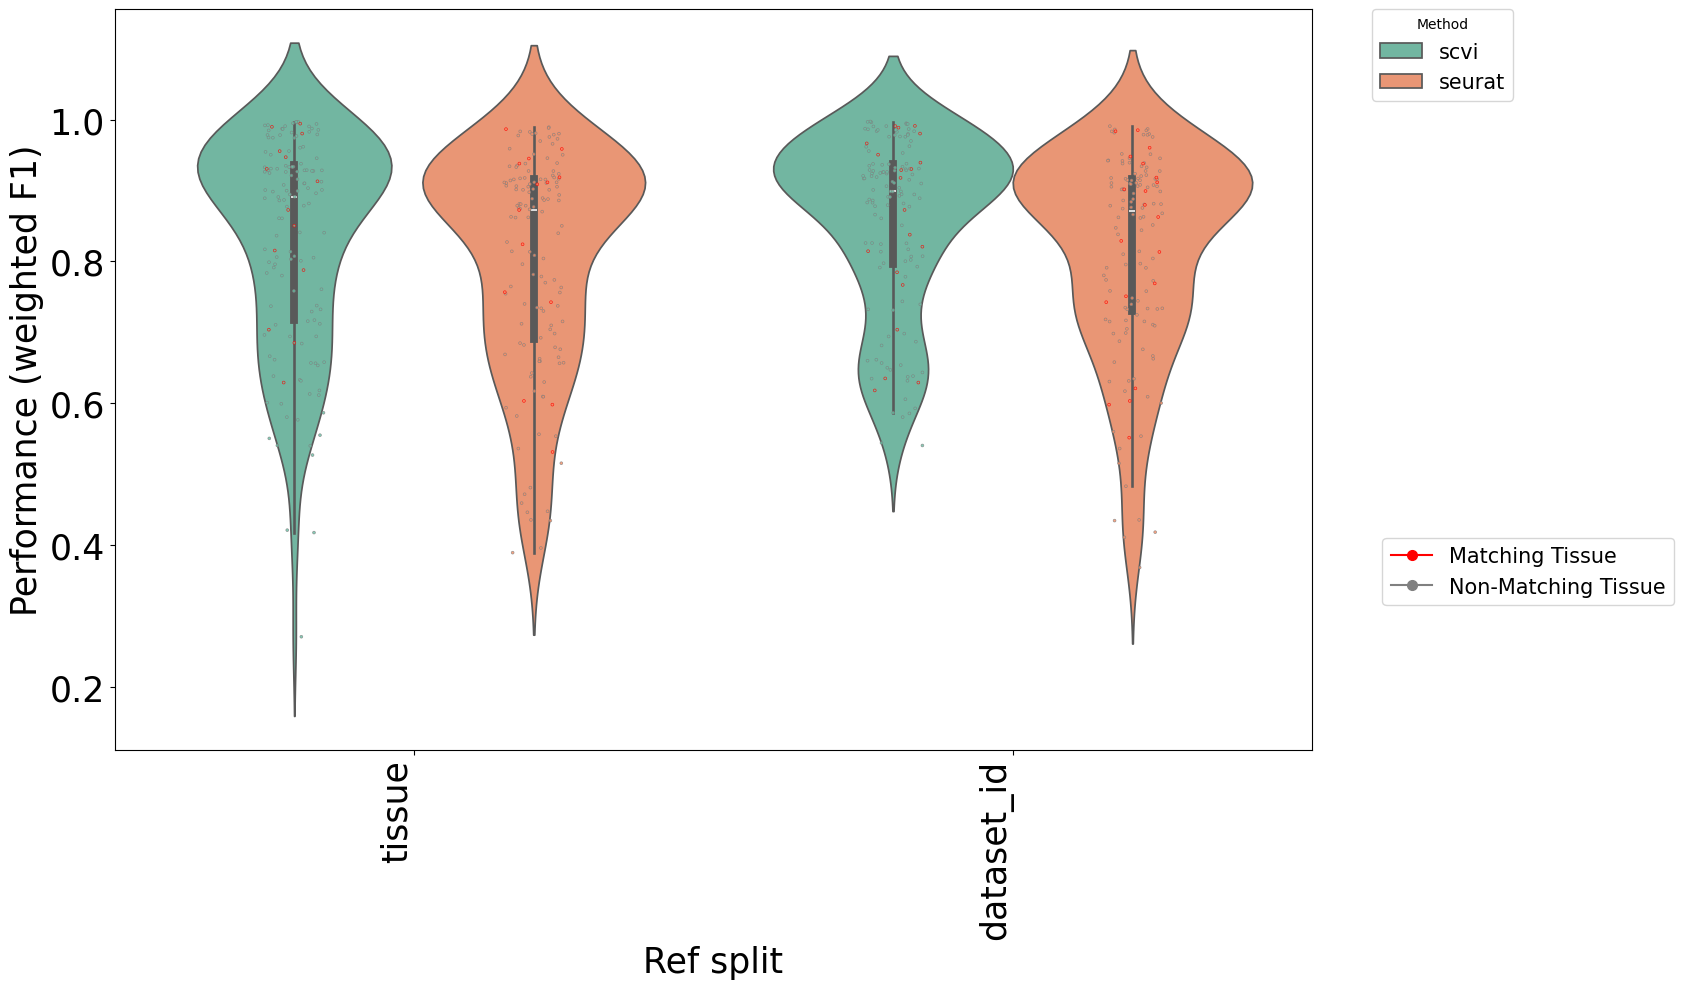
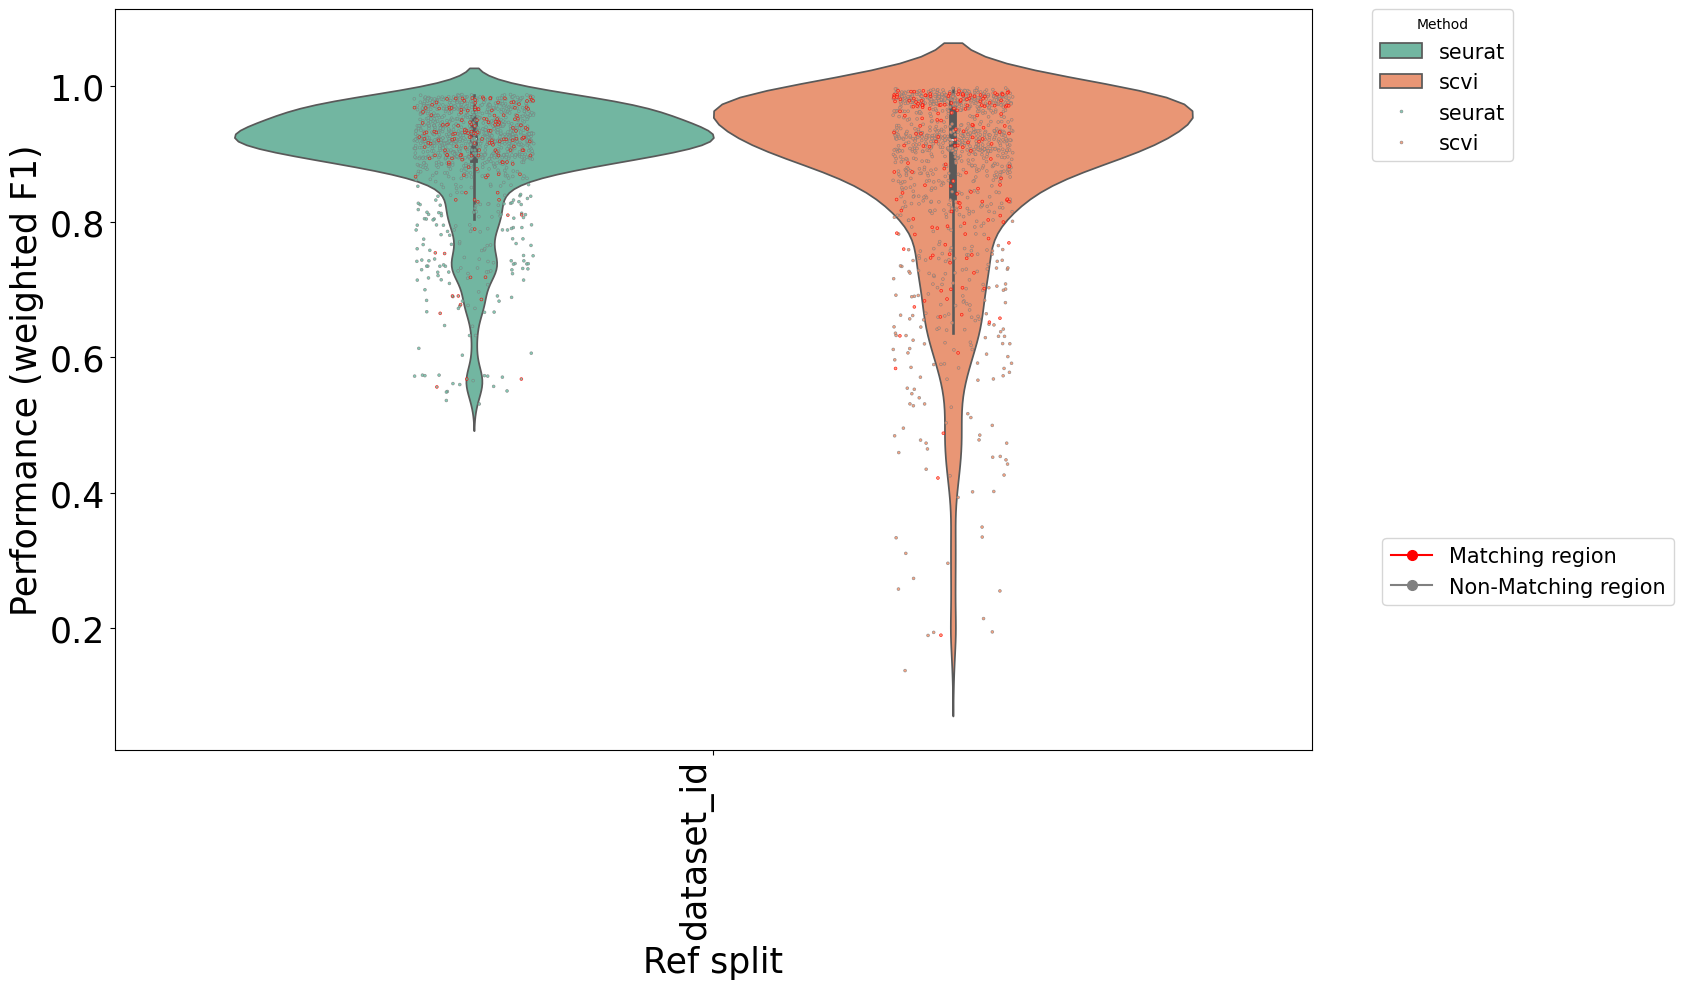
fix plots

diff --git a/bin/run_anova.py b/bin/run_anova.py
@@ -18,6 +18,9 @@ import argparse
 import os
 import statsmodels as sm
 from scipy import stats
+import matplotlib.pyplot as plt
+from sklearn.decomposition import PCA
+from sklearn.preprocessing import StandardScaler, OneHotEncoder
 
 
 # Function to parse command line arguments
@@ -31,88 +34,190 @@ def parse_arguments():
         known_args, _ = parser.parse_known_args()
         return known_args
 
+
+def compute_pca(df, f1_column, factor_names):
+    """
+    Parameters:
+    - df (pd.DataFrame): DataFrame containing the F1 scores and metadata factors.
+    - f1_column (str): Either "weighted_F1" or "label_F1".
+    - factor_cols (list): List of categorical metadata factors.
+
+    Returns:
+    - df_pca (pd.DataFrame): DataFrame with PC1, PC2, and factor columns.
+    - explained_variance (array): Explained variance ratio of the components.
+    """
+    # Identify categorical columns
+    factor_cols= [col for col in factor_names if df[col].nunique() > 1]
+    categorical_cols = [col for col in factor_cols if df[col].dtype != "numeric"]
+
+    # scale F1 column
+    X_f1 = df[[f1_column]].values
+    scaler = StandardScaler()
+    X_numeric = scaler.fit_transform(X_f1)
+
+    # One-hot encode categorical variables
+    encoder = OneHotEncoder(sparse_output=False, drop="first")
+    X_categorical = encoder.fit_transform(df[categorical_cols])
+
+    # Combine standardized F1 scores with encoded categorical data
+    X_combined = np.hstack([X_numeric, X_categorical])
+    n_samples, n_features = X_combined.shape
+    n_components = min(n_samples, n_features, 10)  # Adjust to valid range
+
+    # Run PCA
+    pca = PCA(n_components=n_components)
+    X_pca = pca.fit_transform(X_combined)
+
+    # Convert PCA output to DataFrame
+    df_pca = pd.DataFrame(X_pca, columns=[f"PC{i+1}" for i in range(X_pca.shape[1])])
+    df_pca = pd.concat([df_pca, df[categorical_cols].reset_index(drop=True)], axis=1)
+
+    return df_pca, pca.explained_variance_ratio_, factor_cols
+
+def plot_pca(df_pca, explained_variance, factor_cols, title_prefix, outdir):
+    """
+    Plots PCA results colored by each factor and saves the plots.
+
+    Parameters:
+    - df_pca (pd.DataFrame): DataFrame with PC1, PC2, and factors.
+    - explained_variance (array): Explained variance ratio from PCA.
+    - factor_cols (list): List of factors to color plots.
+    - title_prefix (str): Prefix for plot titles.
+    - outdir (str): Directory to save plots (optional).
+
+    Returns:
+    - None (displays and saves plots)
+    """
+    if outdir:
+        os.makedirs(outdir, exist_ok=True)  # Create directory if it doesn't exist
+
+    for factor in factor_cols:
+            # Create a figure with two subplots: one for PC1 vs PC2, and one for PC3 vs PC4
+            fig, axes = plt.subplots(1, 2, figsize=(14, 6))
+
+            # Plot for PC1 vs PC2
+            sns.scatterplot(data=df_pca, x="PC1", y="PC2", hue=factor, palette="tab10", alpha=0.7, ax=axes[0])
+            axes[0].set_title(f"{title_prefix} - Colored by {factor} (PC1 vs PC2)")
+            axes[0].legend(bbox_to_anchor=(1.05, 1), loc="upper left")
+
+            # Plot for PC3 vs PC4
+            sns.scatterplot(data=df_pca, x="PC3", y="PC4", hue=factor, palette="tab10", alpha=0.7, ax=axes[1])
+            axes[1].set_title(f"{title_prefix} - Colored by {factor} (PC3 vs PC4)")
+            axes[1].legend(bbox_to_anchor=(1.05, 1), loc="upper left")
+
+            # Adjust layout to prevent overlapping of titles/labels
+            plt.tight_layout()
+
+            # Save plot if outdir is specified
+            if outdir:
+                plt.savefig(os.path.join(outdir, f"{title_prefix}_{factor}_PCA.png"), bbox_inches="tight", dpi=300)
+
+            plt.show()
+
+    # Explained variance plot
+    plt.figure(figsize=(6, 4))
+    plt.bar(range(1, len(explained_variance) + 1), explained_variance * 100, alpha=0.7, color="blue")
+    plt.xticks(range(1, len(explained_variance) + 1))
+    plt.xlabel("Principal Component")
+    plt.ylabel("Explained Variance (%)")
+    plt.title(f"{title_prefix} - Explained Variance")
+
+    # Save variance plot
+    if outdir:
+        plt.savefig(os.path.join(outdir, f"{title_prefix}_explained_variance.png"), bbox_inches="tight", dpi=300)
+
+    plt.show()
+
+    
+
+def run_anova(df, factor_names, f1_column):
+    # Select factors with more than one unique value
+    factor_names_uniq = [col for col in factor_names if df[col].nunique() > 1]
+    # Construct formula
+    formula = f'{f1_column} ~ ' + ' + '.join(factor_names_uniq)
+    # Fit model
+    model = ols(formula, data=df).fit()
+    # Run ANOVA with error handling for warnings
+    with warnings.catch_warnings():
+        warnings.simplefilter('error')
+        aov_table = anova_lm(model, typ=2)
+    # Apply FDR correction
+    aov_table['FDR'] = np.append(stats.false_discovery_control(aov_table['PR(>F)'].dropna()), np.nan)
+    return aov_table
+
+def plot_anova_results(aov_combined_df, title_prefix):
+    
+    custom_order = ['subclass', 'class', 'family']
+    
+    # Set 'key' column as categorical with a custom order
+    aov_combined_df['key'] = pd.Categorical(aov_combined_df['key'], categories=custom_order, ordered=True)
+   
+    aov_combined_df["factor"] = aov_combined_df.index
+    aov_combined_df.reset_index(drop=True, inplace=True)
+     # Plot with faceting by 'key'
+    sns.set(style="whitegrid")
+    g = sns.FacetGrid(aov_combined_df, col="key", col_wrap=3, height=5)
+    g.map(sns.barplot, 'F', 'factor', hue='factor', data=aov_combined_df, dodge=False, palette="Set1")
+
+    # Set axis labels and titles
+    g.set_axis_labels('F-statistic', 'Factor')
+    g.set_titles(col_template="{col_name}", fontsize=20)
+   # g.set(xticks=[], yticks=[])
+
+    g.set_xlabels(fontsize=20)
+    g.set_ylabels(fontsize=20)
+        # Adjust layout and save the figure
+    plt.tight_layout()
+    plt.savefig(f"{title_prefix}_anova_plot.png")
+    
 def main():
+    
     args = parse_arguments()
     weighted_f1_results = pd.read_csv(args.weighted_f1_results, sep="\t")
     label_f1_results = pd.read_csv(args.label_f1_results, sep="\t")
-   
+    categoricals = ['manuscript','reference','method','ref_split', 'region_match',"sex","disease","dev_stage"]
+
     if not args.vars:
     # Assuming f1_results is your pandas DataFrame and factor_names is a list of column names
-        factor_names = ["ref_region","query_region","region_match","subsample_ref","method"]  # replace with actual factor column names
+        factor_names = ['manuscript','reference','method','ref_split', 
+                        'region_match',"subsample_ref","sex","disease","dev_stage","cutoff"] # replace with actual factor column names
+
     else:
         factor_names = args.vars
+
     # Convert factor columns to categorical
-    for factor in factor_names:
+    for factor in categoricals:
         weighted_f1_results[factor] =weighted_f1_results[factor].astype('category')
         label_f1_results[factor] =label_f1_results[factor].astype('category')
-    # Convert weighted_f1 to numeric
-    #f1_results['weighted_f1'] = pd.to_numeric(f1_results['weighted_f1'], errors='coerce')
-    #weighted_f1_results = f1_results[factor_names + ["key"] + ["weighted_f1"]].drop_duplicates()
+    
+
+    aov_combined = []
     df_list = [group for _, group in weighted_f1_results.groupby('key')]
-    # run anova for each df in df_list
+    factor_names = factor_names
     for df in df_list:
-    # Run anova
-        formula = 'weighted_f1 ~ ' + ' + '.join(factor_names)
-        model = ols(formula, data=df).fit()
-        aov_table = anova_lm(model, typ=2)
-        
-        # FDR correction
-        aov_table['FDR'] = np.append(stats.false_discovery_control(aov_table['PR(>F)'].dropna()), np.nan)
-        
-        print(aov_table)
-        # Apply -log10 transformation to the FDR values for the plot
-        aov_table['-log10(FDR)'] = -np.log10(aov_table['FDR'])
+        aov_table = run_anova(df, factor_names, f1_column="weighted_f1")
+        aov_table.to_csv(df['key'].values[0] + "_anova_global_table.tsv", sep="\t")
         aov_table = aov_table.drop('Residual', axis=0)
-        
-        fig, ax = plt.subplots(figsize=(10, 5))
- 
-        # Plot with the transformed y-values
-        sns.barplot(x='index', y='-log10(FDR)', data=aov_table.reset_index(), ax=ax, hue='index')
-        # Set labels and title
-        ax.set_ylabel('-log10(FDR)', fontsize=20)
-        ax.set_xlabel('Factor', fontsize=20)
-        ax.set_title(f"{df['key'].values[0]}", fontsize=20)
-        # Rotate x-axis labels
-        plt.xticks(rotation=90, fontsize=20)
-        # Adjust layout and save the figure
-        plt.tight_layout()
-        plt.savefig(f"{df['key'].values[0]}_anova_global_plot.png")
-        
-    # do this for individual label f1 scores
+        aov_table['key'] = df['key'].values[0] 
+        aov_combined.append(aov_table)
 
-    #label_results = f1_results[f1_results['label'].notnull()]
+    aov_combined_df = pd.concat(aov_combined)
+    plot_anova_results(aov_combined_df, "weighted_f1")
+    
+    
+    aov_table_label = []
     df_list = [group for _, group in label_f1_results.groupby('key')]
+    factor_names = factor_names + ["label"]
     for df in df_list:
-        df = df[df['label'].notnull()]
-        # Run anova
-        formula = 'f1_score ~ ' + ' + '.join(factor_names)  + ' + label'
-        model = ols(formula, data=df).fit()
-        aov_table = anova_lm(model, typ=2)
-    
-        # FDR correction
-        aov_table['FDR'] = np.append(stats.false_discovery_control(aov_table['PR(>F)'].dropna()), np.nan)
-    
-        print(aov_table)
-        # Apply -log10 transformation to the FDR values for the plot
-        aov_table['-log10(FDR)'] = -np.log10(aov_table['FDR'])
+        aov_table = run_anova(df, factor_names, f1_column="f1_score")
+        aov_table.to_csv(df['key'].values[0] + "_anova_label_table.tsv", sep="\t")
         aov_table = aov_table.drop('Residual', axis=0)
+        aov_table['key'] = df['key'].values[0] 
+        aov_table_label.append(aov_table)
+
+    aov_combined_df = pd.concat(aov_table_label)
+    plot_anova_results(aov_combined_df, "label_f1")    
     
-        fig, ax = plt.subplots(figsize=(10, 5))
-
-        # Plot with the transformed y-values
-        sns.barplot(x='index', y='-log10(FDR)', data=aov_table.reset_index(), ax=ax, hue='index')
-        # Set labels and title
-        ax.set_ylabel('-log10(FDR)', fontsize=20)
-        ax.set_xlabel('Factor', fontsize=20)
-        ax.set_title(f"{df['key'].values[0]}", fontsize=20)
-        # Rotate x-axis labels
-        plt.xticks(rotation=90, fontsize=20)
-        plt.yticks(fontsize=20)
-        # Adjust layout and save the figure
-        plt.tight_layout()
-        plt.savefig(f"{df['key'].values[0]}_anova_label_plot.png")
-
-
 if __name__ == "__main__":
     main()
   

diff --git a/bin/aggregate_results.py b/bin/aggregate_results.py
@@ -87,25 +87,24 @@ def add_strip_plot(df, var, split, facet, add_region_match=True):
         edgecolor='grey',    # Grey edge color for non-match region
         linewidth=0.5
     )
-    if add_region_match:
-        # Create the strip plot for matching region data with customized edgecolor
-        sns.stripplot(
-            data=match_region_df,
-            y=var,
-            x=split,
-            hue=facet,
-            dodge=True,          
-            palette="Set2",      
-            size=2,
-            alpha=0.8,           
-            jitter=True,
-            marker="o",
-            edgecolor='r',       # Red edge color for match region
-            linewidth=0.5,         
-            legend=None,         # Disable legend for second plot
-            ax=ax                # Add to same axis
-        )
-     # Create custom legend handles for edge color
+    # Create the strip plot for matching region data with customized edgecolor
+    sns.stripplot(
+        data=match_region_df,
+        y=var,
+        x=split,
+        hue=facet,
+        dodge=True,          
+        palette="Set2",      
+        size=2,
+        alpha=0.8,           
+        jitter=True,
+        marker="o",
+        edgecolor='r',       # Red edge color for match region
+        linewidth=0.5,         
+        legend=None,         # Disable legend for second plot
+        ax=ax                # Add to same axis
+    )
+    # Create custom legend handles for edge color
           
 
 def add_acronym_legend(acronym_mapping, figure=None, x=1.05, y=0.5, title=None):
@@ -141,7 +140,8 @@ def plot_distribution(df, var, outdir, split=None, facet=None, acronym_mapping=N
     """
     setup_plot(var, split)
     add_violin_plot(df, var, split, facet)
-    add_strip_plot(df, var, split, facet)
+    if add_region_match:
+        add_strip_plot(df, var, split, facet)
     #plt.legend(loc='upper left', bbox_to_anchor=(1.05, 1), borderaxespad=0)
     plt.xticks(rotation=90, ha="right", fontsize=25)
     plt.yticks(fontsize=25)
@@ -151,13 +151,15 @@ def plot_distribution(df, var, outdir, split=None, facet=None, acronym_mapping=N
     
     handles, labels = plt.gca().get_legend_handles_labels()
     facet_legend = plt.legend(
-        handles=handles[:len(labels)//2],  # Take only the facet group handles
-        title=facet.replace("_"," ").capitalize() if facet else "Group",
-        loc='upper left',
-        bbox_to_anchor=(1.05, 1),
-        borderaxespad=0,
-        fontsize=15
+    handles=handles,  # Use all the handles
+    labels=labels,    # Ensure that we provide all the labels too
+    title=facet.replace("_", " ").capitalize() if facet else "Group",  # Title formatting
+    loc='upper left',
+    bbox_to_anchor=(1.05, 1),
+    borderaxespad=0,
+    fontsize=15
     )
+
 
     if add_region_match:
         red_patch = mlines.Line2D([], [], color='red', marker='o', markersize=7, label='Matching region')
@@ -208,13 +210,13 @@ def main():
     f1_df["reference_acronym"] = f1_df["reference"].apply(make_acronym)
     f1_df["query_acronym"] = f1_df["query"].apply(make_acronym)
     f1_df["reference"] = f1_df["reference"].str.replace("_", " ")
+    f1_df["manuscript"] = f1_df["query"].apply(lambda x: x.split("_")[0])
     f1_df["query"] = f1_df["query"].str.replace("_", " ")
-    
 
     # Boxplots: Show the effect of categorical parameters
-    categorical_columns = ['query_region', 'ref_region', "reference_acronym", "query_acronym",'method','ref_split', 'region_match',"subsample_ref"] #organism, other categoricals
+    categorical_columns = ['query', 'reference','method','ref_split', 'region_match',"subsample_ref","sex","disease","dev_stage","cutoff"] #organism, other categoricals
     outdir = "weighted_f1_distributions"
-    label_columns = ["label", "f1_score","macro_f1","micro_f1"]
+    label_columns = ["label", "f1_score"]
     os.makedirs(outdir, exist_ok=True)
     weighted_f1_results = f1_df.drop(columns=label_columns).drop_duplicates()
     weighted_f1_results.to_csv("weighted_f1_results.tsv", sep="\t", index=False)
@@ -232,7 +234,8 @@ def main():
     outdir = "label_distributions"
     os.makedirs(outdir, exist_ok=True)
     label_results = f1_df[f1_df['label'].notnull()]
-    label_results = label_results.drop(columns = ["macro_f1", "micro_f1"])
+    label_results = label_results[label_results["f1_score"].notnull()]
+    #label_results = label_results.drop(columns = ["macro_f1", "micro_f1"])
     label_results.to_csv("label_f1_results.tsv", sep="\t", index=False)
     for key in label_results["key"].unique():
         df_subset = label_results[label_results["key"] == key]
@@ -240,7 +243,7 @@ def main():
         os.makedirs(outdir, exist_ok=True)
         for col in categorical_columns:
           # if col != "method":
-            plot_distribution(label_results, var="f1_score",outdir=outdir, split=col, facet="label", 
+            plot_distribution(df_subset, var="f1_score",outdir=outdir, split=col, facet="label", 
                         acronym_mapping = None, add_region_match=False)
     
     
